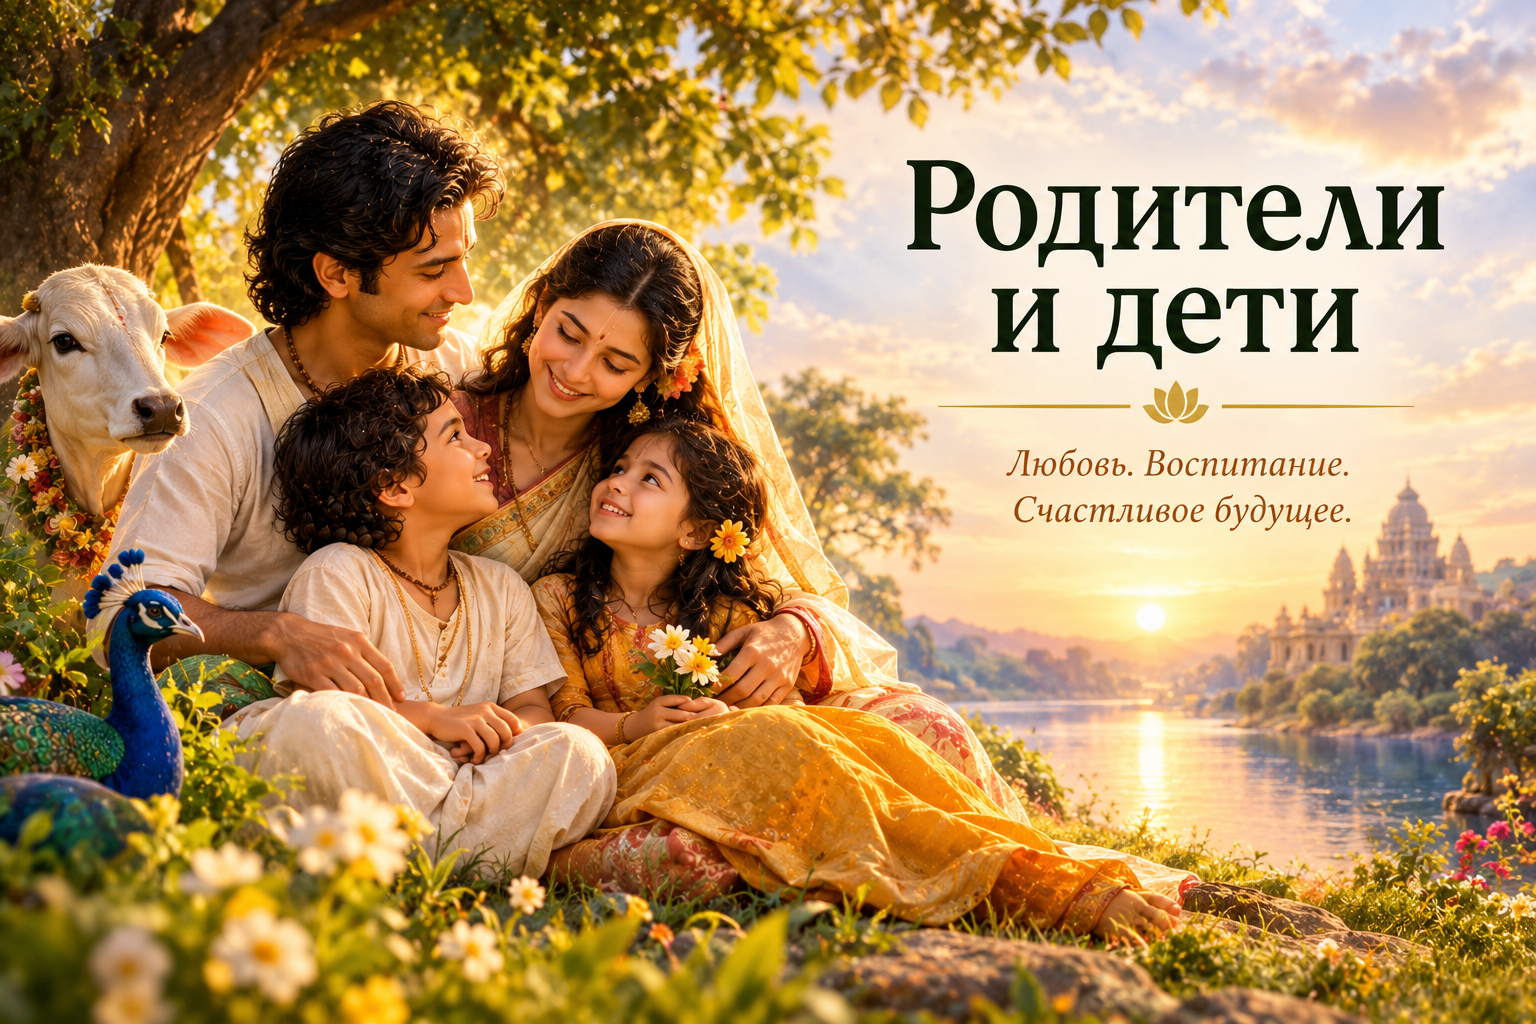
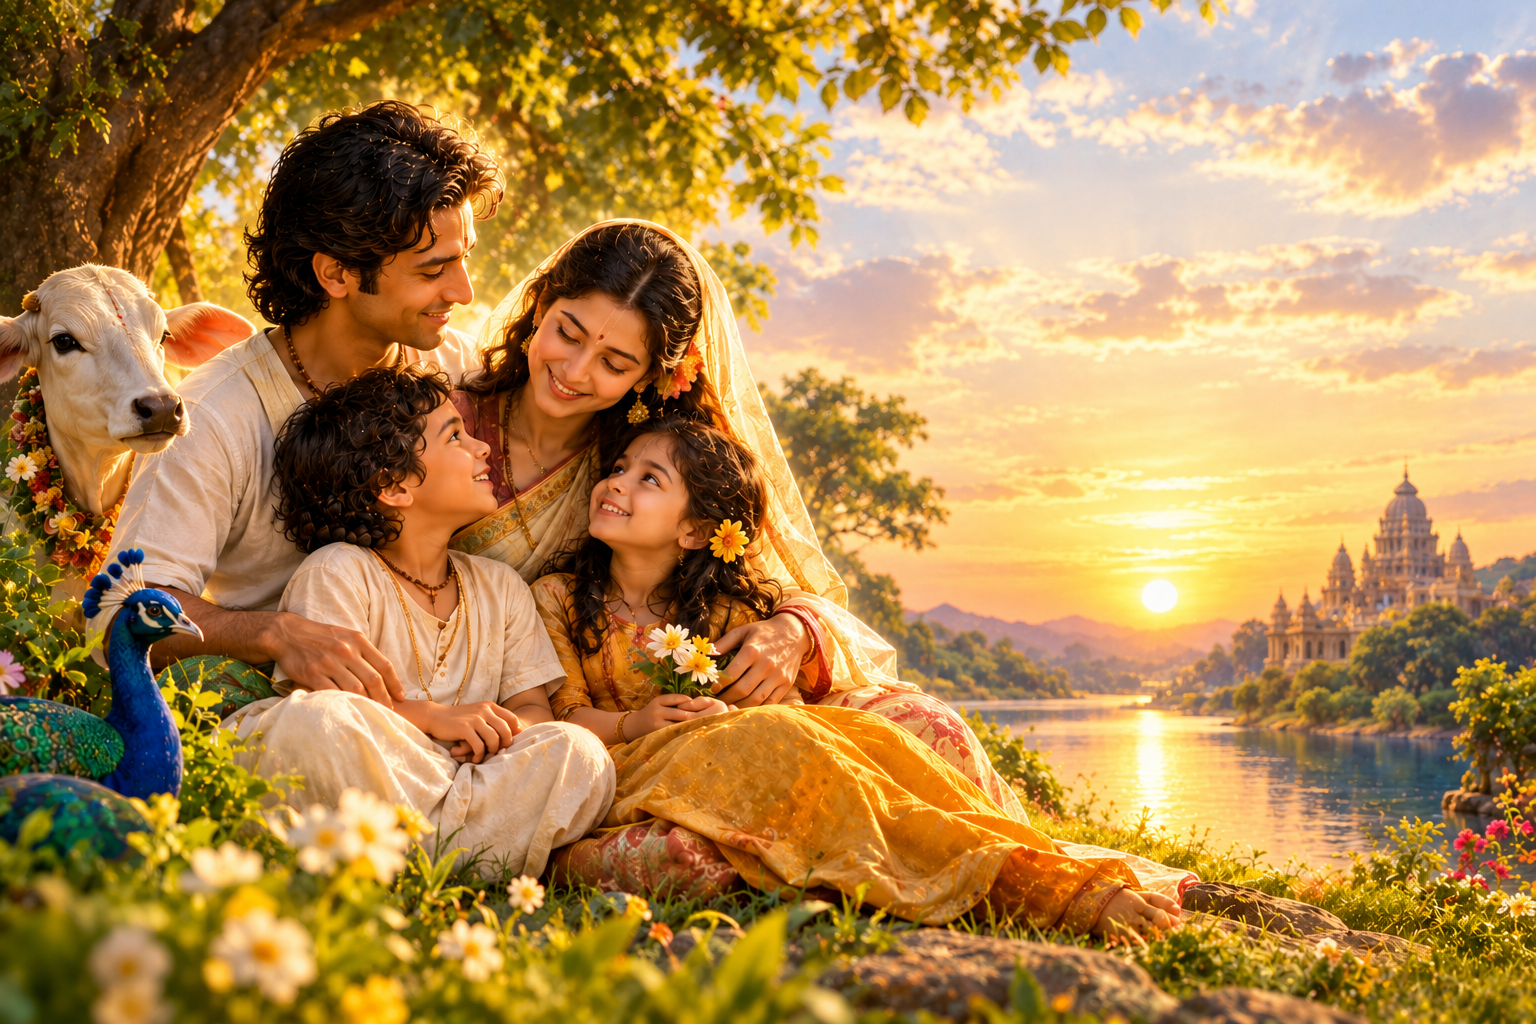
Замена изображения на приветственной странице

diff --git a/client/src/components/SplashScreen.tsx b/client/src/components/SplashScreen.tsx
@@ -2,7 +2,7 @@ import { useEffect, useRef, useState } from "react";
 import { motion, AnimatePresence } from "framer-motion";
 
 // пути к изображению и аудио файлу
-const SPLASH_IMAGE_SRC = "/images/krishna.jpg";
+const SPLASH_IMAGE_SRC = "/images/1. parents-and-children.png";
 const SPLASH_AUDIO_SRC = "/audio/krishna.mp3";
 
 const GOLD = "#FFD700";
